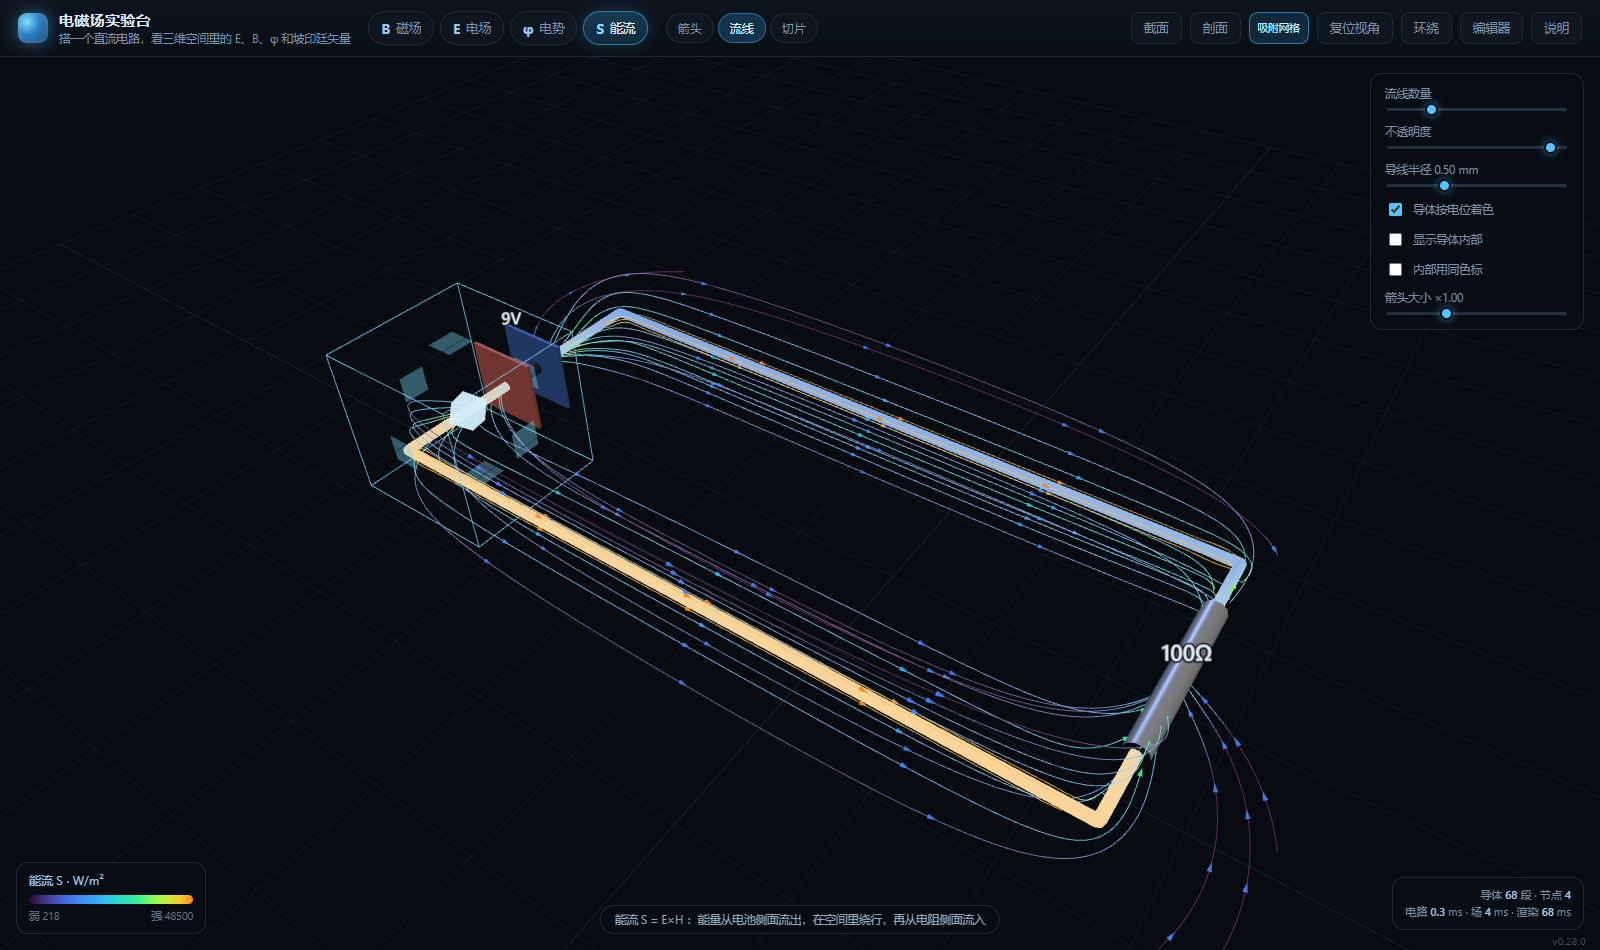
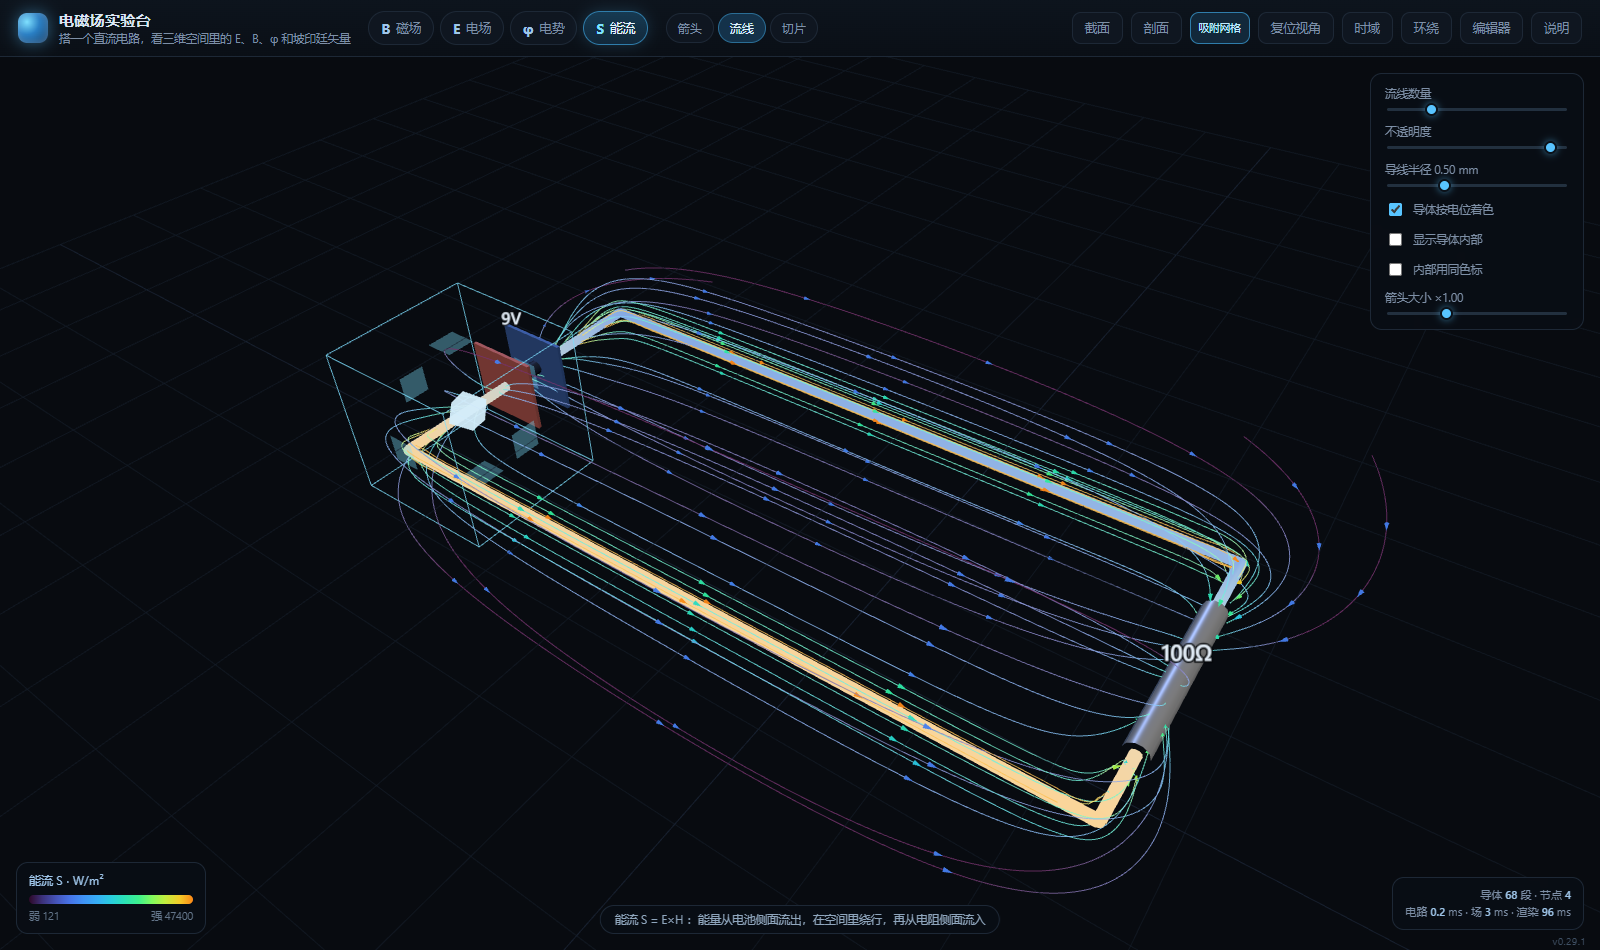
fix: 时域面板按钮点不动（.overlay pointer-events:none，且项目没有通用 .hidden 规则）；流线环改成按跨度分档 + 几何间距（v0.29.1）
- css: .timewin 加 pointer-events:auto；补 .timewin.hidden { display:none }
  （本项目没有通用 .hidden，每个组件各写各的——这正是面板一直显示且点不动的原因）
- viz: 半径分档按 hi/lo 跨度决定档数（≥2.2 三档 / ≥1.6 两档 / 否则一档），
  并用几何间距。原来三条环半径只差 8%，看起来就是双线重叠
- test: 新增时域 6 项（按钮可点/面板可见/单步推进/播放/暂停/隐藏）
- 版本 0.29.1

Changed region(s): [[0.25, 0.2747, 0.8125, 0.9158], [0.7188, 0.0, 0.875, 0.0611]]

diff --git a/js/viz.js b/js/viz.js
@@ -724,12 +724,18 @@ export class FieldViz {
 
       const hi = Math.max(radW * 1.4, Math.min(Math.min(rMax, radW * 12), dEdge * 0.8));
       const lo = Math.min(hi * 0.92, Math.max(radW * 1.35, sep * 0.55));
+      // 半径跨度不够就别硬塞三圈：两圈挨太近，看上去就是「双线重叠」。
+      // 跨度比 ≥2.2 才放 3 圈，≥1.6 放 2 圈，否则 1 圈。
+      const spanRatio = hi / lo;
+      const nRadii = spanRatio >= 2.2 ? N_RADII : (spanRatio >= 1.6 ? 2 : 1);
 
       // 站点之间交错一下起始方位，线不至于全从一个方向「长出来」
       const th = a * GOLDEN_ANGLE;
-      for (let q = 0; q < N_RADII; q++) {
-        const f = N_RADII === 1 ? 0.5 : q / (N_RADII - 1);
-        const r = lo + (hi - lo) * f;
+      for (let q = 0; q < nRadii; q++) {
+        // 几何间距（按比例递增），比线性间距看起来更均匀
+        const r = nRadii === 1
+          ? Math.sqrt(lo * hi)
+          : lo * Math.pow(hi / lo, q / (nRadii - 1));
         const ca = Math.cos(th) * r, sa = Math.sin(th) * r;
         const bx = base[0] * M2W, by = base[1] * M2W, bz = base[2] * M2W;
         const p = [

diff --git a/js/app.js b/js/app.js
@@ -1023,6 +1023,24 @@ function runSelfTest() {
       slicePane.setLocks(state.boxLock);
     }
 
+    // 9.584 时域：按钮可点、能单步推进
+    try {
+      $('btn-time').click();
+      ok(state.timeOn === true, '时域按钮可点');
+      ok(!$('timewin').classList.contains('hidden'), '时域面板可见');
+      const i0 = tIndex;
+      tStep();
+      ok(tIndex === i0 + 1, '时域可以单步推进');
+      $('tm-play').click();
+      ok(!!tTimer, '播放按钮可点');
+      tPause();
+      ok(!tTimer, '暂停后定时器已清除');
+      $('btn-time').click();
+      ok(state.timeOn === false && $('timewin').classList.contains('hidden'), '退出时域后面板隐藏');
+    } catch (err) {
+      ok(false, '时域测试抛错', String(err.message).slice(0, 80));
+    }
+
     // 9.585 截面中心锁
     try {
       const cx0 = slice.state.cx;

diff --git a/css/style.css b/css/style.css
@@ -502,6 +502,8 @@ input[type=range]::-webkit-slider-thumb {
 .locked-wrap input[type="range"]:disabled { opacity: 0.35; }
 
 .timewin {
+  /* .overlay 默认 pointer-events:none，这里必须恢复，否则按钮点不动 */
+  pointer-events: auto;
   left: 50%;
   bottom: 92px;
   transform: translateX(-50%);
@@ -525,6 +527,7 @@ input[type=range]::-webkit-slider-thumb {
   font-variant-numeric: tabular-nums;
 }
 .timewin input[type="range"] { width: 100%; }
+.timewin.hidden { display: none; }
 
 .sw-tip {
   margin: 4px 0 2px;

diff --git a/js/version.js b/js/version.js
@@ -2,5 +2,5 @@
  * version.js —— 版本号的唯一来源
  * BUILD 由 tools/build_single.py 在打包时写入 git 短哈希。
  */
-export const VERSION = '0.29.0';
+export const VERSION = '0.29.1';
 export const BUILD = null;
